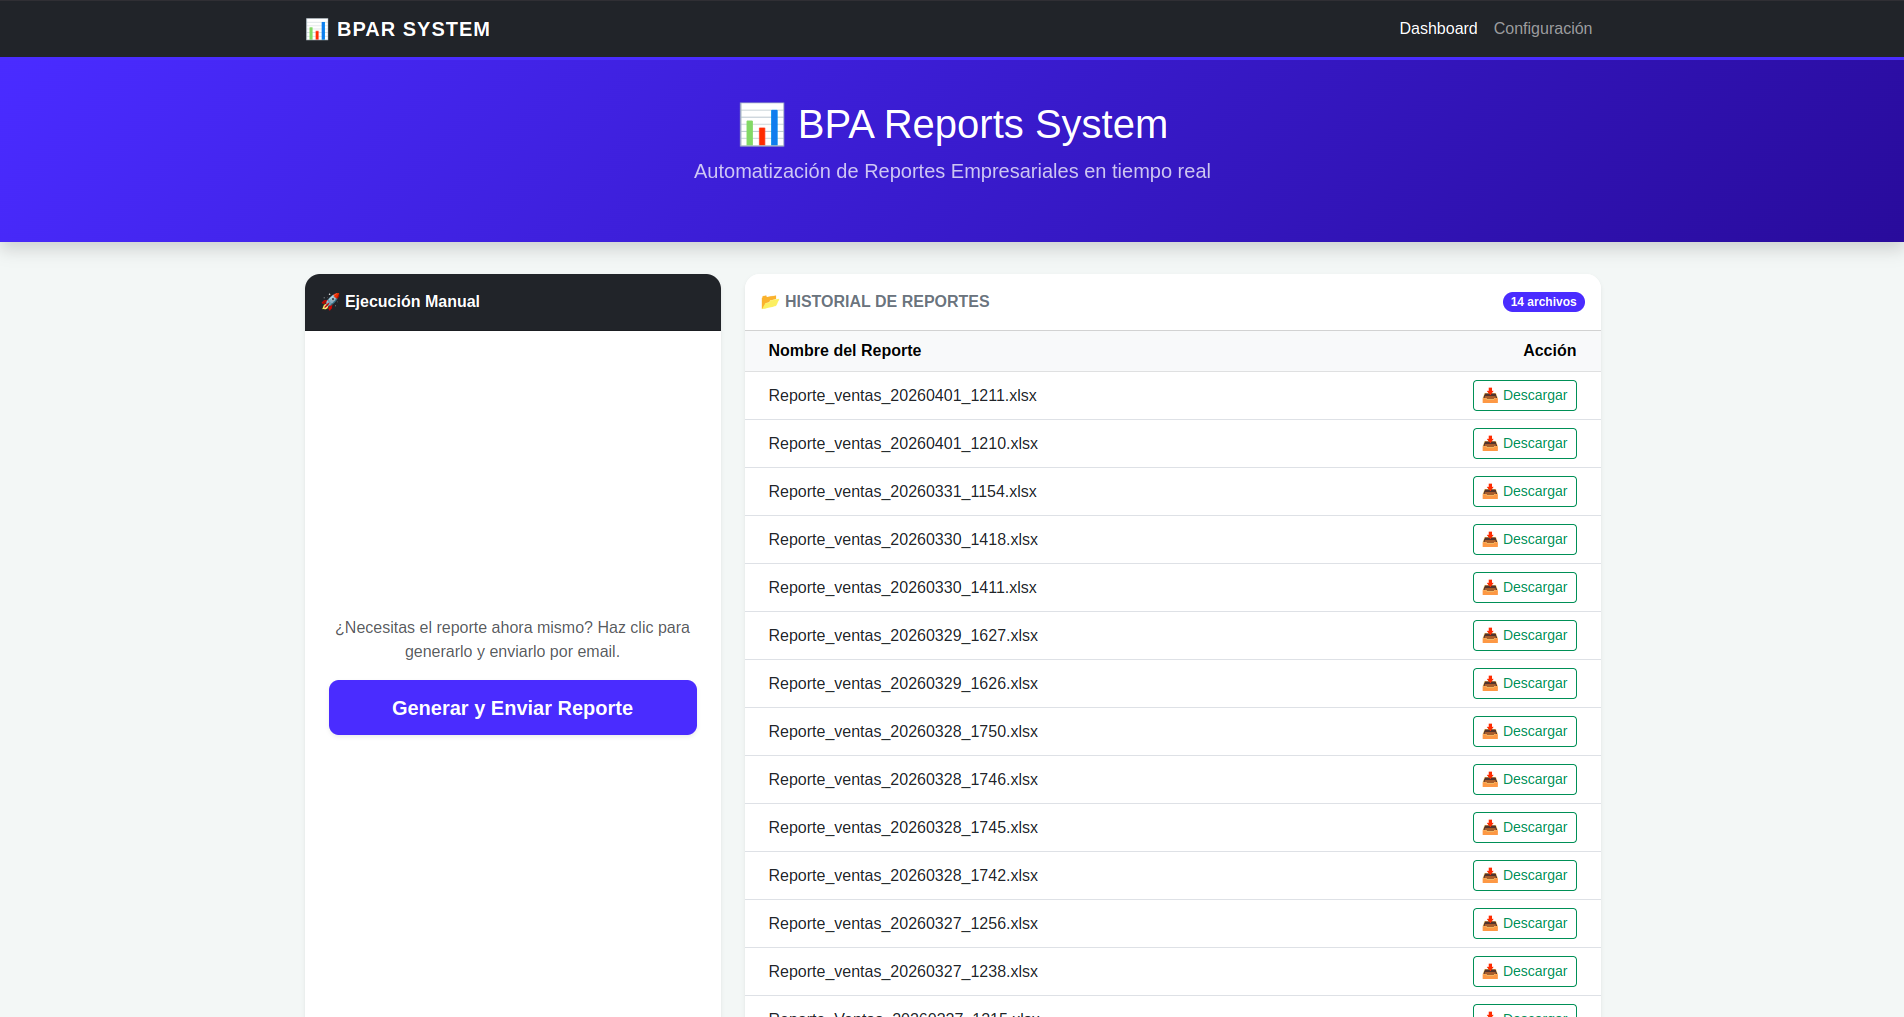
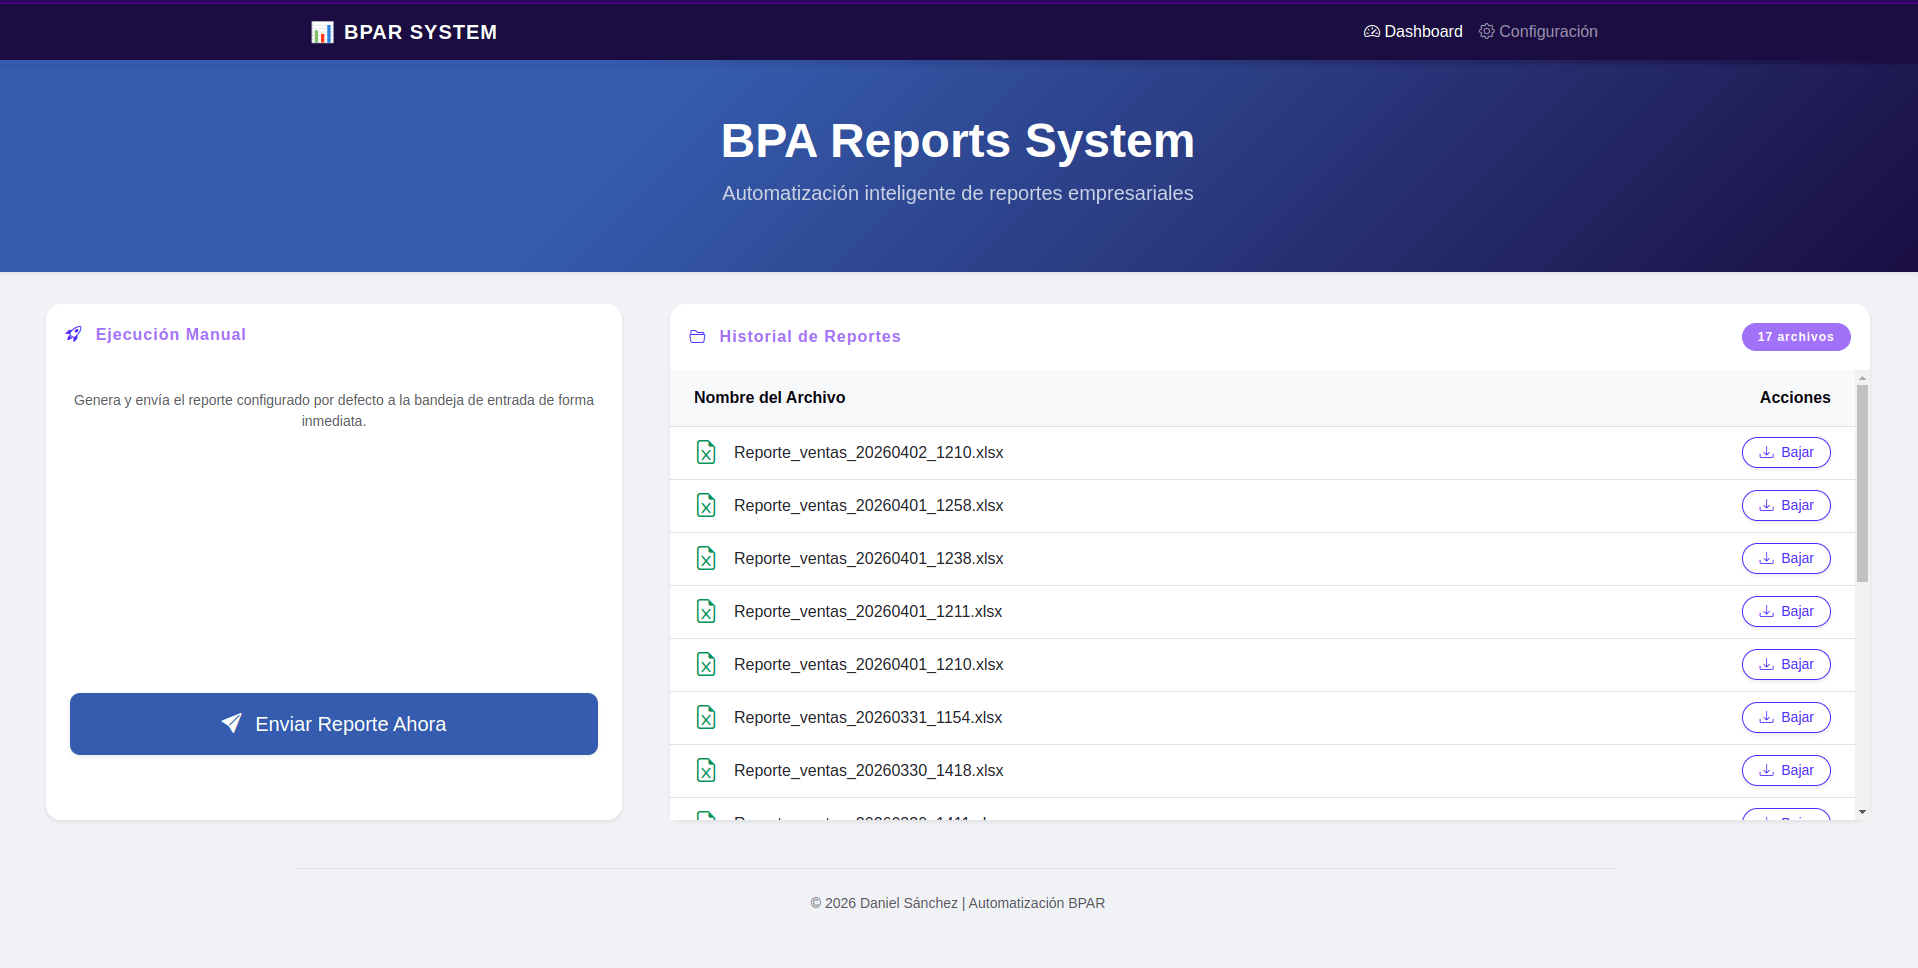
docs: completar galería de imágenes con configuración y preview de resultados

diff --git a/app/static/css/style.css b/app/static/css/style.css
@@ -47,6 +47,26 @@ body {
     box-shadow: inset 0 -10px 20px rgba(0, 0, 0, 0.1);
 }
 
+.hero-section .container {
+    max-width: 100%;
+    padding-left: 3rem;
+    padding-right: 3rem;
+}
+
+.table-responsive {
+    padding: 0 1rem;
+}
+
+@media (max-width: 768px) {
+    .container-fluid {
+        padding-left: 15px;
+        padding-right: 15px;
+    }
+    .hero-section {
+        padding: 2rem 0;
+    }
+}
+
 .card {
     border: none;
     border-radius: 15px;

diff --git a/app/templates/settings.html b/app/templates/settings.html
@@ -18,8 +18,8 @@
         </div>
     </nav>
 
-    <div class="container mt-5">
-        <div class="row justify-content-center">
+    <div class="container-fluid px-md-5">
+        <div class="row justify-content-center g-lg-5">
             <div class="col-md-8 mb-5">
                 
                 <h2 class="mb-4 fw-bold tech-title">Configuración del Sistema</h2>

diff --git a/app/templates/index.html b/app/templates/index.html
@@ -31,8 +31,8 @@
         </div>
     </header>
 
-    <main class="container">
-        <div class="row g-4">
+    <main class="container-fluid px-md-5">
+        <div class="row g-4 g-lg-5">
 
             <!-- Columna Izquierda: Panel de Control -->
             <div class="col-md-4">

diff --git a/README.md b/README.md
@@ -41,8 +41,9 @@ Control total de los parámetros del sistema (Email, Horarios, Columnas).
 ![Settings](docs/screenshots/settings.png)
 
 ### 📧 Entrega de Reportes
-Ejemplo del reporte final recibido automáticamente en la bandeja de entrada.
+Ejemplo del reporte recibido por email y vista del archivo Excel generado.
 ![Email](docs/screenshots/email_received.png)
+![Excel](docs/screenshots/excel_preview.png)
 
 ---
 
